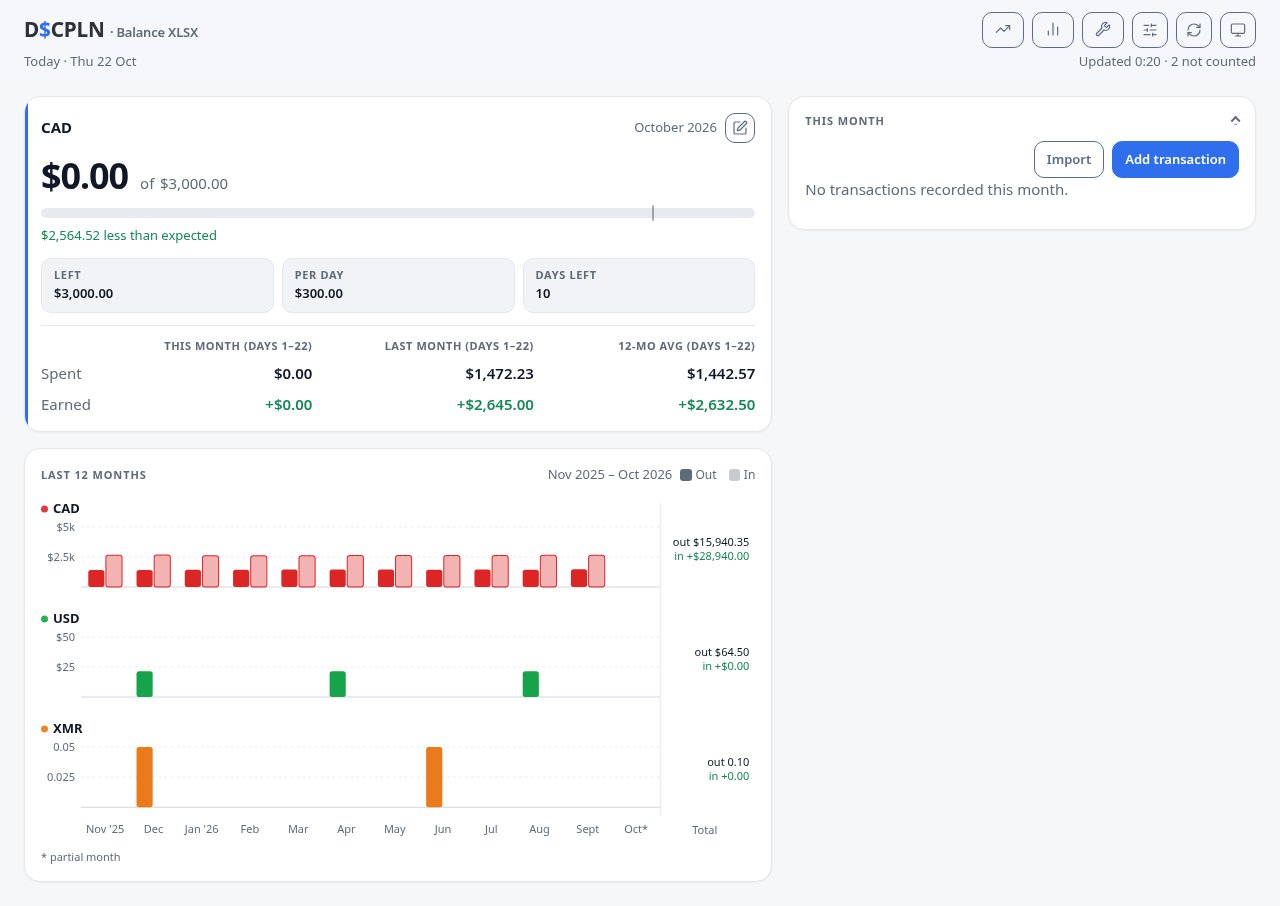
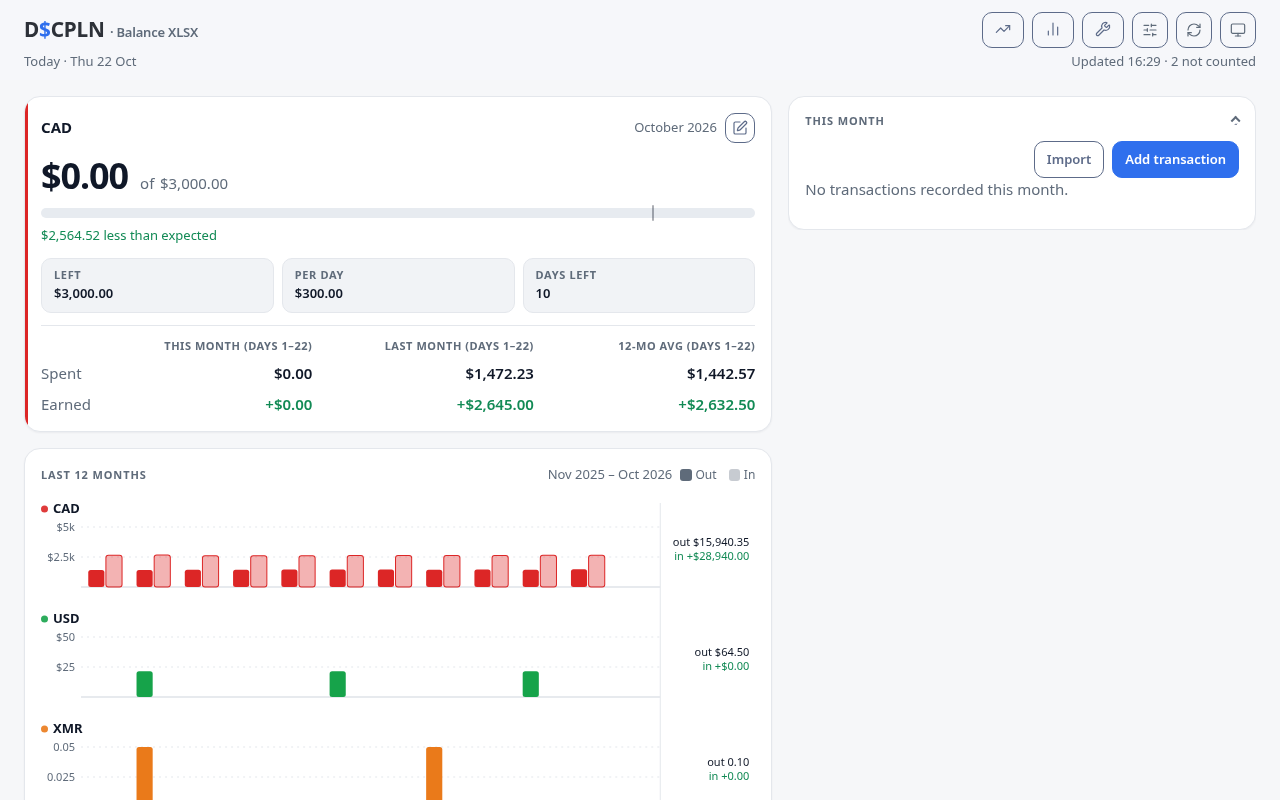
Fix Balance accent, progress pace and transaction column height (#25)
Use the primary currency accent on the whole hero card, drive every dashboard budget bar from expected spend (green at/below, red above), and cap the desktop transaction card to the main column with a scrollable list.

diff --git a/apps/balance-xlsx/ui/src/Dashboard.jsx b/apps/balance-xlsx/ui/src/Dashboard.jsx
@@ -28,6 +28,8 @@ export default function Dashboard() {
 
   const historyHostRef = useRef(null)
   const historyTooltipRef = useRef(null)
+  const layoutMainRef = useRef(null)
+  const layoutSideRef = useRef(null)
   const budgetDialogRef = useRef(null)
   const categoriesDialogRef = useRef(null)
   const transactionDialogRef = useRef(null)
@@ -49,7 +51,7 @@ export default function Dashboard() {
   const writable = data?.writable !== false
 
   const hero = buildHero(data, today, money)
-  const currencyCards = buildCurrencyCards(data, money)
+  const currencyCards = buildCurrencyCards(data, money, today)
   const expenses = sortNewestFirst(data?.transactions || [])
   const expensesMeta = expenses.length ? formatCount(expenses.length) : ''
 
@@ -143,6 +145,47 @@ export default function Dashboard() {
     // eslint-disable-next-line react-hooks/exhaustive-deps
   }, [data])
 
+  // Keep the transaction column from growing past the main column on desktop.
+  // The list itself scrolls inside the capped card; mobile keeps the natural
+  // document flow.
+  useLayoutEffect(() => {
+    const main = layoutMainRef.current
+    const side = layoutSideRef.current
+    if (!main || !side) return
+    const desktop = window.matchMedia('(min-width: 64rem)')
+    const sync = () => {
+      if (!desktop.matches) {
+        side.style.removeProperty('--side-max-height')
+        side.querySelector('#expensesList')?.style.removeProperty('--expenses-list-max-height')
+        return
+      }
+      const mainHeight = main.getBoundingClientRect().height
+      side.style.setProperty('--side-max-height', `${Math.ceil(mainHeight)}px`)
+
+      // Chrome renders <details> content in a shadow slot, so a flex column on
+      // the disclosure does not reliably size the list. Cap the list itself
+      // using its measured offset from the card top instead.
+      const card = side.querySelector('#expensesCard')
+      const list = side.querySelector('#expensesList')
+      if (!card || !list) return
+      const cardTop = card.getBoundingClientRect().top
+      const listTop = list.getBoundingClientRect().top
+      const paddingBottom = Number.parseFloat(getComputedStyle(card).paddingBottom) || 0
+      const listHeight = Math.max(0, Math.floor(mainHeight - (listTop - cardTop) - paddingBottom))
+      list.style.setProperty('--expenses-list-max-height', `${listHeight}px`)
+    }
+    sync()
+    const observer = new ResizeObserver(sync)
+    observer.observe(main)
+    desktop.addEventListener('change', sync)
+    return () => {
+      observer.disconnect()
+      desktop.removeEventListener('change', sync)
+      side.style.removeProperty('--side-max-height')
+      side.querySelector('#expensesList')?.style.removeProperty('--expenses-list-max-height')
+    }
+  }, [data])
+
   useEffect(() => {
     fetchData()
     const onVisibility = () => {
@@ -189,7 +232,7 @@ export default function Dashboard() {
       />
 
       <main className="layout">
-        <div className="layout__main">
+        <div className="layout__main" ref={layoutMainRef}>
           <HeroCard
             hero={hero}
             canEditBudget={Boolean(data)}
@@ -199,7 +242,7 @@ export default function Dashboard() {
           <HistoryCard hidden={historyHidden} rangeText={historyRange} hostRef={historyHostRef} tooltipRef={historyTooltipRef} />
         </div>
 
-        <div className="layout__side">
+        <div className="layout__side" ref={layoutSideRef}>
           <ExpensesPanel
             expenses={expenses}
             expensesMeta={expensesMeta}

diff --git a/apps/balance-xlsx/ui/src/lib/dashboard-model.js b/apps/balance-xlsx/ui/src/lib/dashboard-model.js
@@ -2,13 +2,7 @@
 
 import { formats } from '@dscpln/ui-kit'
 import { number, clean, currencyColor } from './money.js'
-
-function cardState(spent, budget) {
-  if (budget <= 0) return 'card--none'
-  if (spent >= budget) return 'card--over'
-  if (spent / budget >= 0.8) return 'card--warn'
-  return 'card--ok'
-}
+import { expectedSpend, progressState } from './budget-progress.js'
 
 export function buildHero(data, today, money) {
   const currency = (data?.currencies || []).find((entry) => entry.primary) || (data?.currencies || [])[0] || null
@@ -20,7 +14,7 @@ export function buildHero(data, today, money) {
   const day = today.getDate()
   const daysLeft = Math.max(1, daysInMonth - day + 1)
   const remaining = budget - spent
-  const expected = value('monthsExpectedSpend') || budget * (day / daysInMonth)
+  const expected = expectedSpend(currency, budget, today)
 
   const pct = budget > 0 ? Math.min((spent / budget) * 100, 100) : 0
   const paceFraction = budget > 0 ? Math.min(1, Math.max(0, expected / budget)) : 0
@@ -102,17 +96,18 @@ export function buildHero(data, today, money) {
     progressAriaText: budget > 0 ? `${Math.round(pct)}% of budget used` : 'No budget set',
     paceMarkerHidden: budget <= 0,
     paceMarkerLeft: `${(paceFraction * 100).toFixed(1)}%`,
-    cardClass: cardState(spent, budget),
+    cardClass: progressState(spent, budget, expected),
   }
 }
 
-export function buildCurrencyCards(data, money) {
+export function buildCurrencyCards(data, money, today = null) {
   return (data?.currencies || [])
     .filter((currency) => !currency.primary && currency.hasActivity)
     .map((currency) => {
       const code = currency.code
       const budget = number(currency.monthlyBudget)
       const spent = number(currency.monthsSpend)
+      const expected = expectedSpend(currency, budget, today)
       const remaining = budget - spent
       const pct = budget > 0 ? Math.min((spent / budget) * 100, 100) : 0
       const convertedParts = []
@@ -134,7 +129,7 @@ export function buildCurrencyCards(data, money) {
         remainingOver: budget > 0 && remaining < 0,
         earnedText: `+${money(number(currency.monthsIncome), code)} in`,
         convertedText: convertedParts.length ? `${convertedParts.join(' / ')} converted` : null,
-        cardClass: cardState(spent, budget),
+        cardClass: progressState(spent, budget, expected),
       }
     })
 }

diff --git a/apps/balance-xlsx/ui/src/lib/budget-progress.js b/apps/balance-xlsx/ui/src/lib/budget-progress.js
@@ -1,0 +1,18 @@
+// Pure budget-progress helpers shared by the dashboard cards.
+
+import { number } from './money.js'
+
+// Progress reflects the expected spend for today, not an arbitrary share of
+// the monthly budget. Under or at the pace line is green; over it is red.
+export function progressState(spent, budget, expected) {
+  if (budget <= 0) return 'card--none'
+  return spent > expected ? 'card--over' : 'card--ok'
+}
+
+export function expectedSpend(currency, budget, today) {
+  const supplied = number(currency?.monthsExpectedSpend)
+  if (supplied > 0) return supplied
+  if (budget <= 0 || !today) return 0
+  const daysInMonth = new Date(today.getFullYear(), today.getMonth() + 1, 0).getDate()
+  return budget * (today.getDate() / daysInMonth)
+}

diff --git a/apps/balance-xlsx/ui/src/components/HeroCard.jsx b/apps/balance-xlsx/ui/src/components/HeroCard.jsx
@@ -3,9 +3,13 @@ import { Breakable } from '@dscpln/ui-kit'
 
 export default function HeroCard({ hero, canEditBudget, onEditBudget }) {
   return (
-    <section className={`card card--hero ${hero.cardClass}`} aria-labelledby="monthHeading">
+    <section
+      className={`card card--hero ${hero.cardClass}`}
+      aria-labelledby="monthHeading"
+      style={hero.accent ? { '--currency': hero.accent } : undefined}
+    >
       <div className="card__header">
-        <h2 className="currency-badge" style={hero.accent ? { '--currency': hero.accent } : undefined}>
+        <h2 className="currency-badge">
           <span id="monthHeading">{hero.heading}</span>
         </h2>
         <span className="card__header-tools">

diff --git a/apps/balance-xlsx/ui/src/balance.css b/apps/balance-xlsx/ui/src/balance.css
@@ -920,6 +920,21 @@ details.card[open] > summary::after {
 
     .layout__side {
         grid-column: 2;
+        min-height: 0;
+        max-height: var(--side-max-height);
+        overflow: hidden;
+    }
+
+    #expensesCard {
+        max-height: var(--side-max-height);
+        overflow: hidden;
+    }
+
+    #expensesCard > .expenses__list {
+        max-height: var(--expenses-list-max-height);
+        overflow-y: auto;
+        overscroll-behavior: contain;
+        padding-right: var(--space-1);
     }
 }
 
